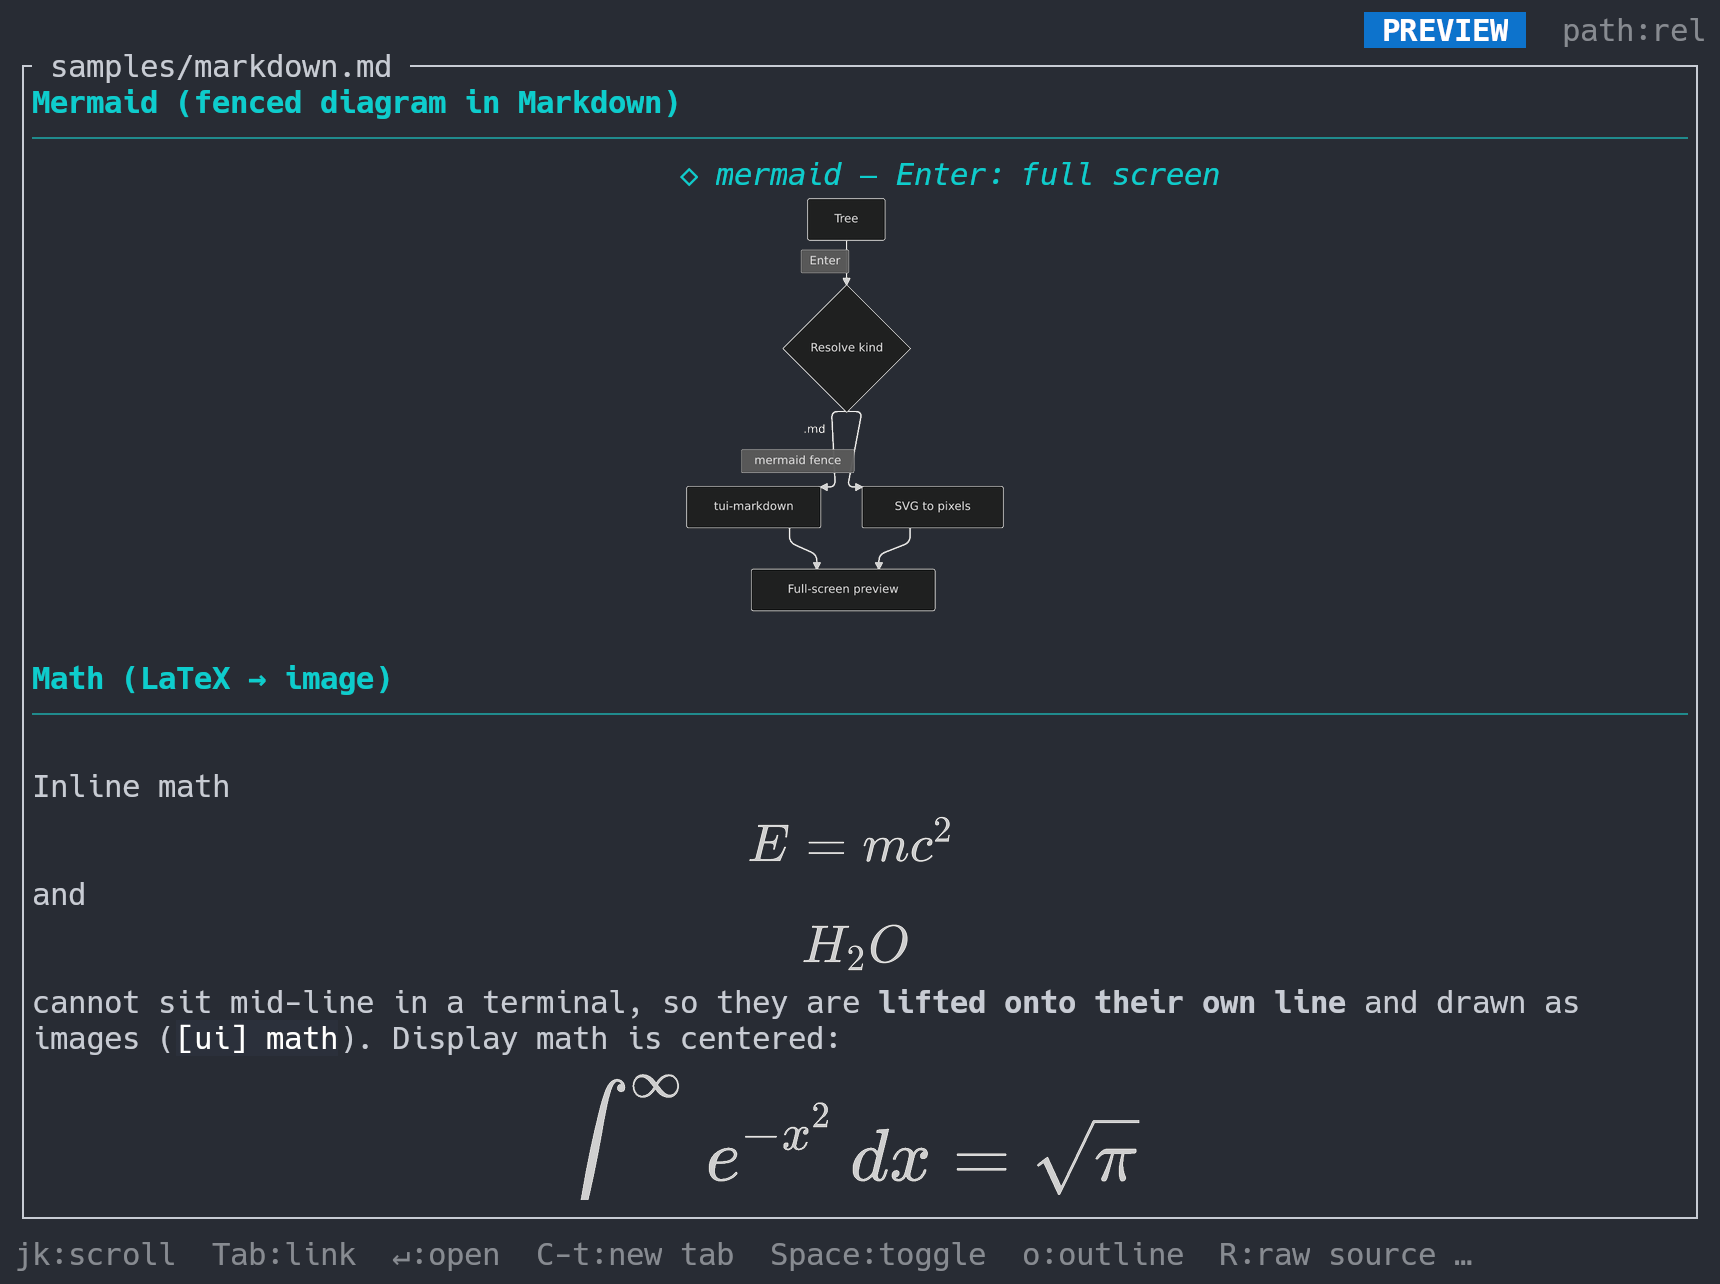
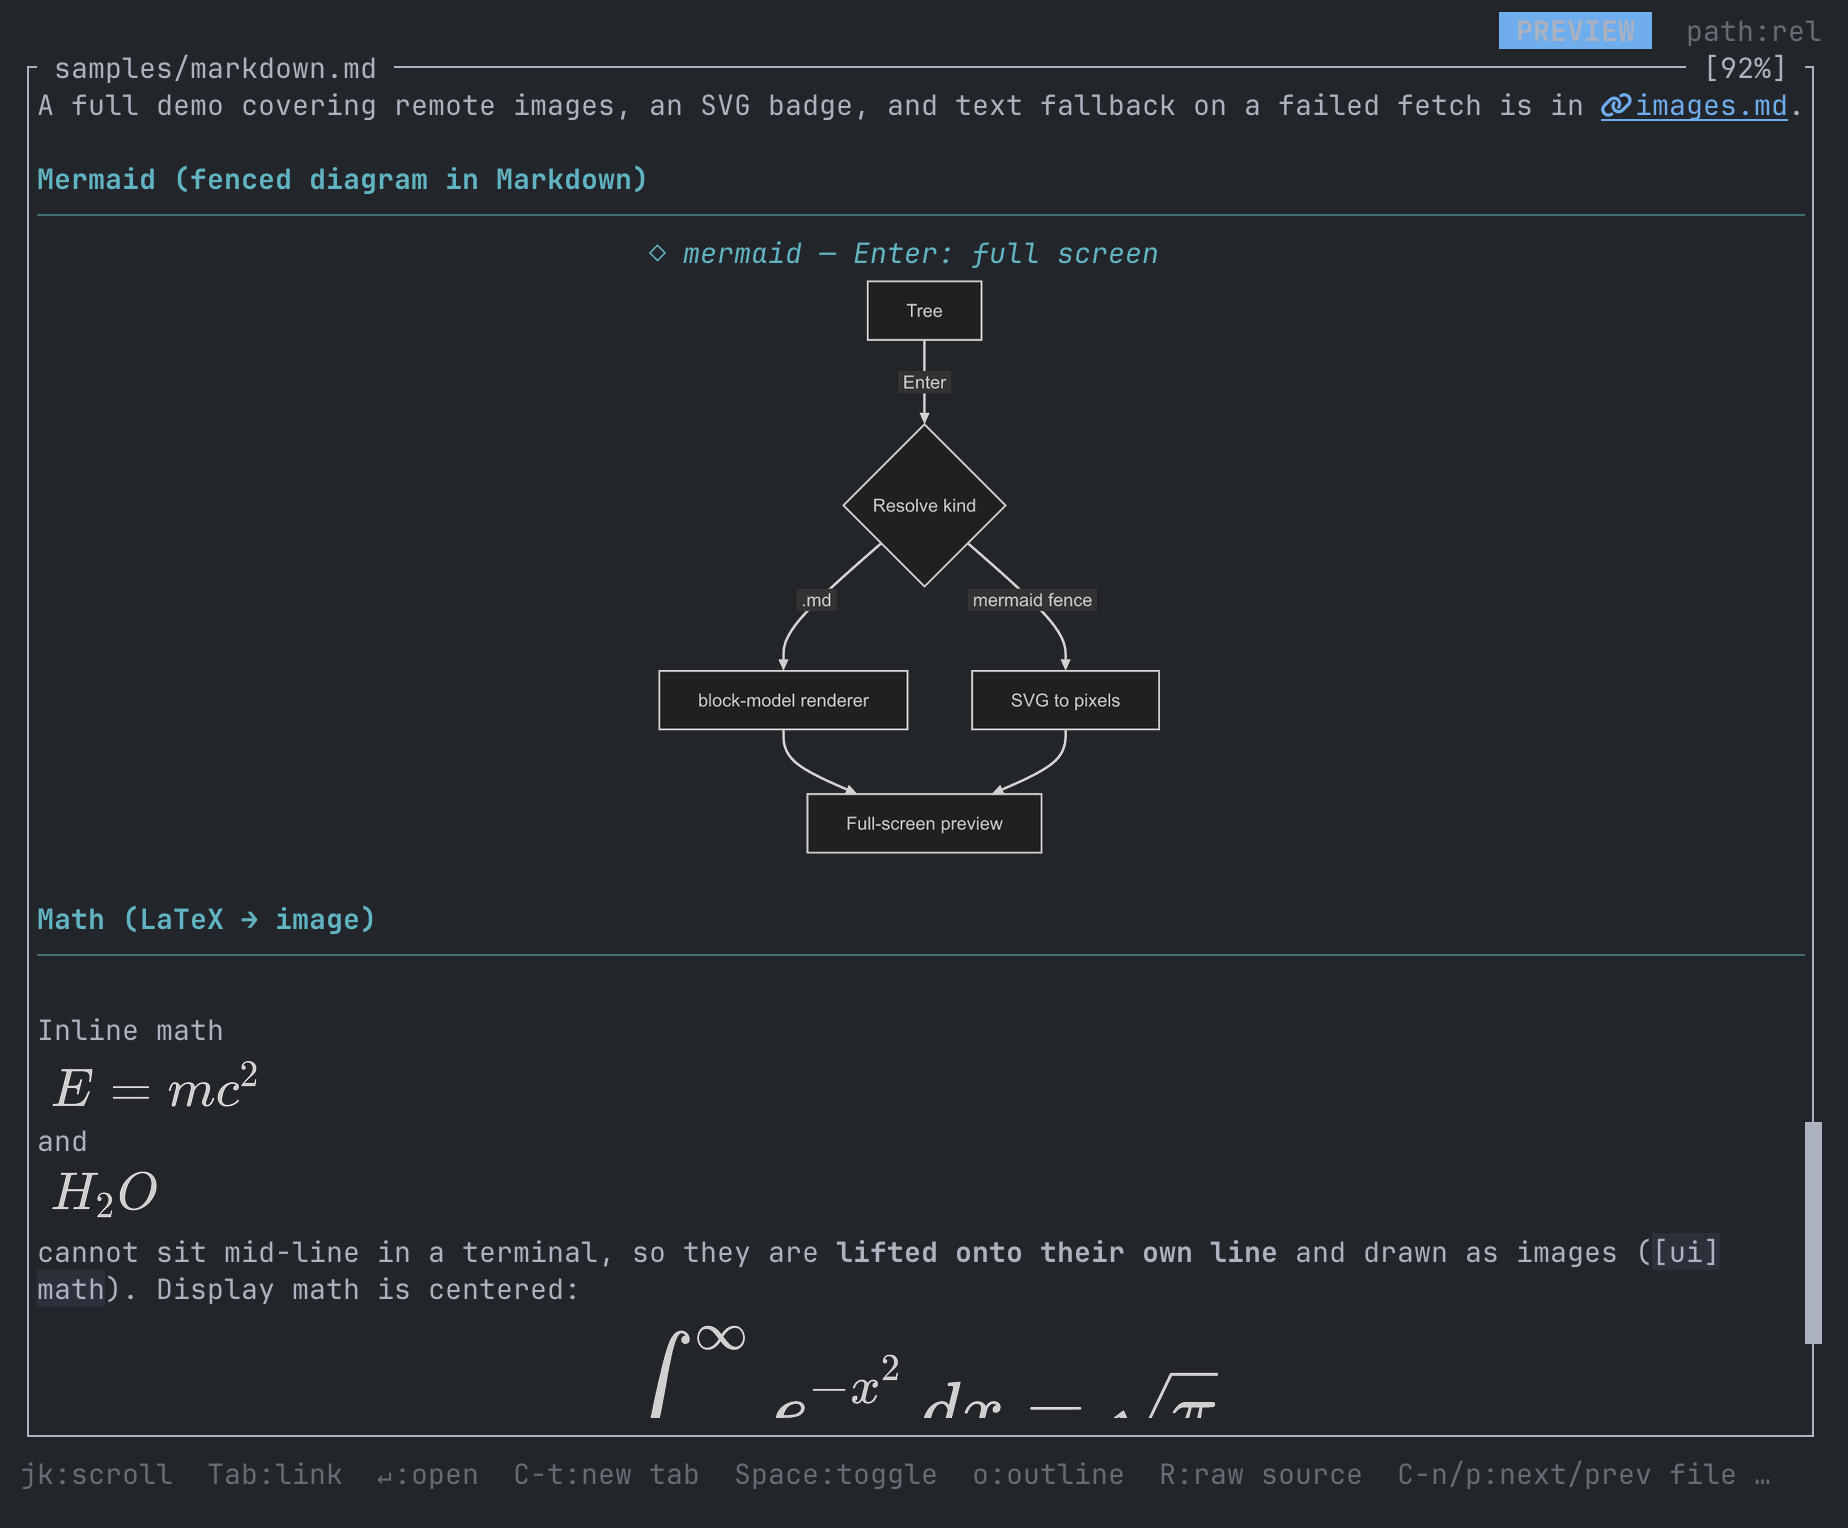
docs: reshoot the Markdown screenshot, and show what the renderer draws
The Markdown screenshot was stale twice over. Its diagram was drawn by
mermaid-rs-renderer, which konoma no longer has, and the diagram's own
text still named tui-markdown as the Markdown renderer -- removed a
release ago. A picture in the README that names a dependency the project
dropped is worse than no picture.

Reshot from the same sample file at the same theme and size as the
neighbouring screenshots, so the set still looks like one set. The diagram
now reads "block-model renderer" because that is what the sample says now.

A second image joins it: a sequence diagram with an actor, an activation
bar and a nested alt block, from the new samples/mermaid.md gallery. The
Markdown shot shows that a diagram appears at all; this one shows what the
renderer can actually draw, which is the substance of the release. Added
to the README and to both language versions of the site's front page.

demo.gif is left for a separate pass: it carries no diagram, but one frame
shows a table that still credits tui-markdown.

diff --git a/README.md b/README.md
@@ -70,6 +70,11 @@ in-between split view.
 <p align="center"><b>Markdown</b> — Mermaid diagrams and LaTeX math, typeset and drawn as real images in the preview</p>
 
 <p align="center">
+  <img src="https://raw.githubusercontent.com/LESIM-Co-Ltd/konoma/main/assets/mermaid-gallery.png" alt="A sequence diagram with an actor, an activation bar and an alt block, drawn by konoma's own Mermaid renderer" width="860">
+</p>
+<p align="center"><b>Mermaid</b> — all 23 diagram kinds, parsed, laid out and drawn by konoma itself, with no browser and no external renderer</p>
+
+<p align="center">
   <img src="https://raw.githubusercontent.com/LESIM-Co-Ltd/konoma/main/assets/markdown-richtext.png" alt="Tables with inline styling and alignment, a horizontal rule, and interactive task lists in a Markdown preview" width="860">
 </p>
 <p align="center"><b>Rich text</b> — tables with inline styling and alignment, a horizontal rule, and interactive task lists</p>
